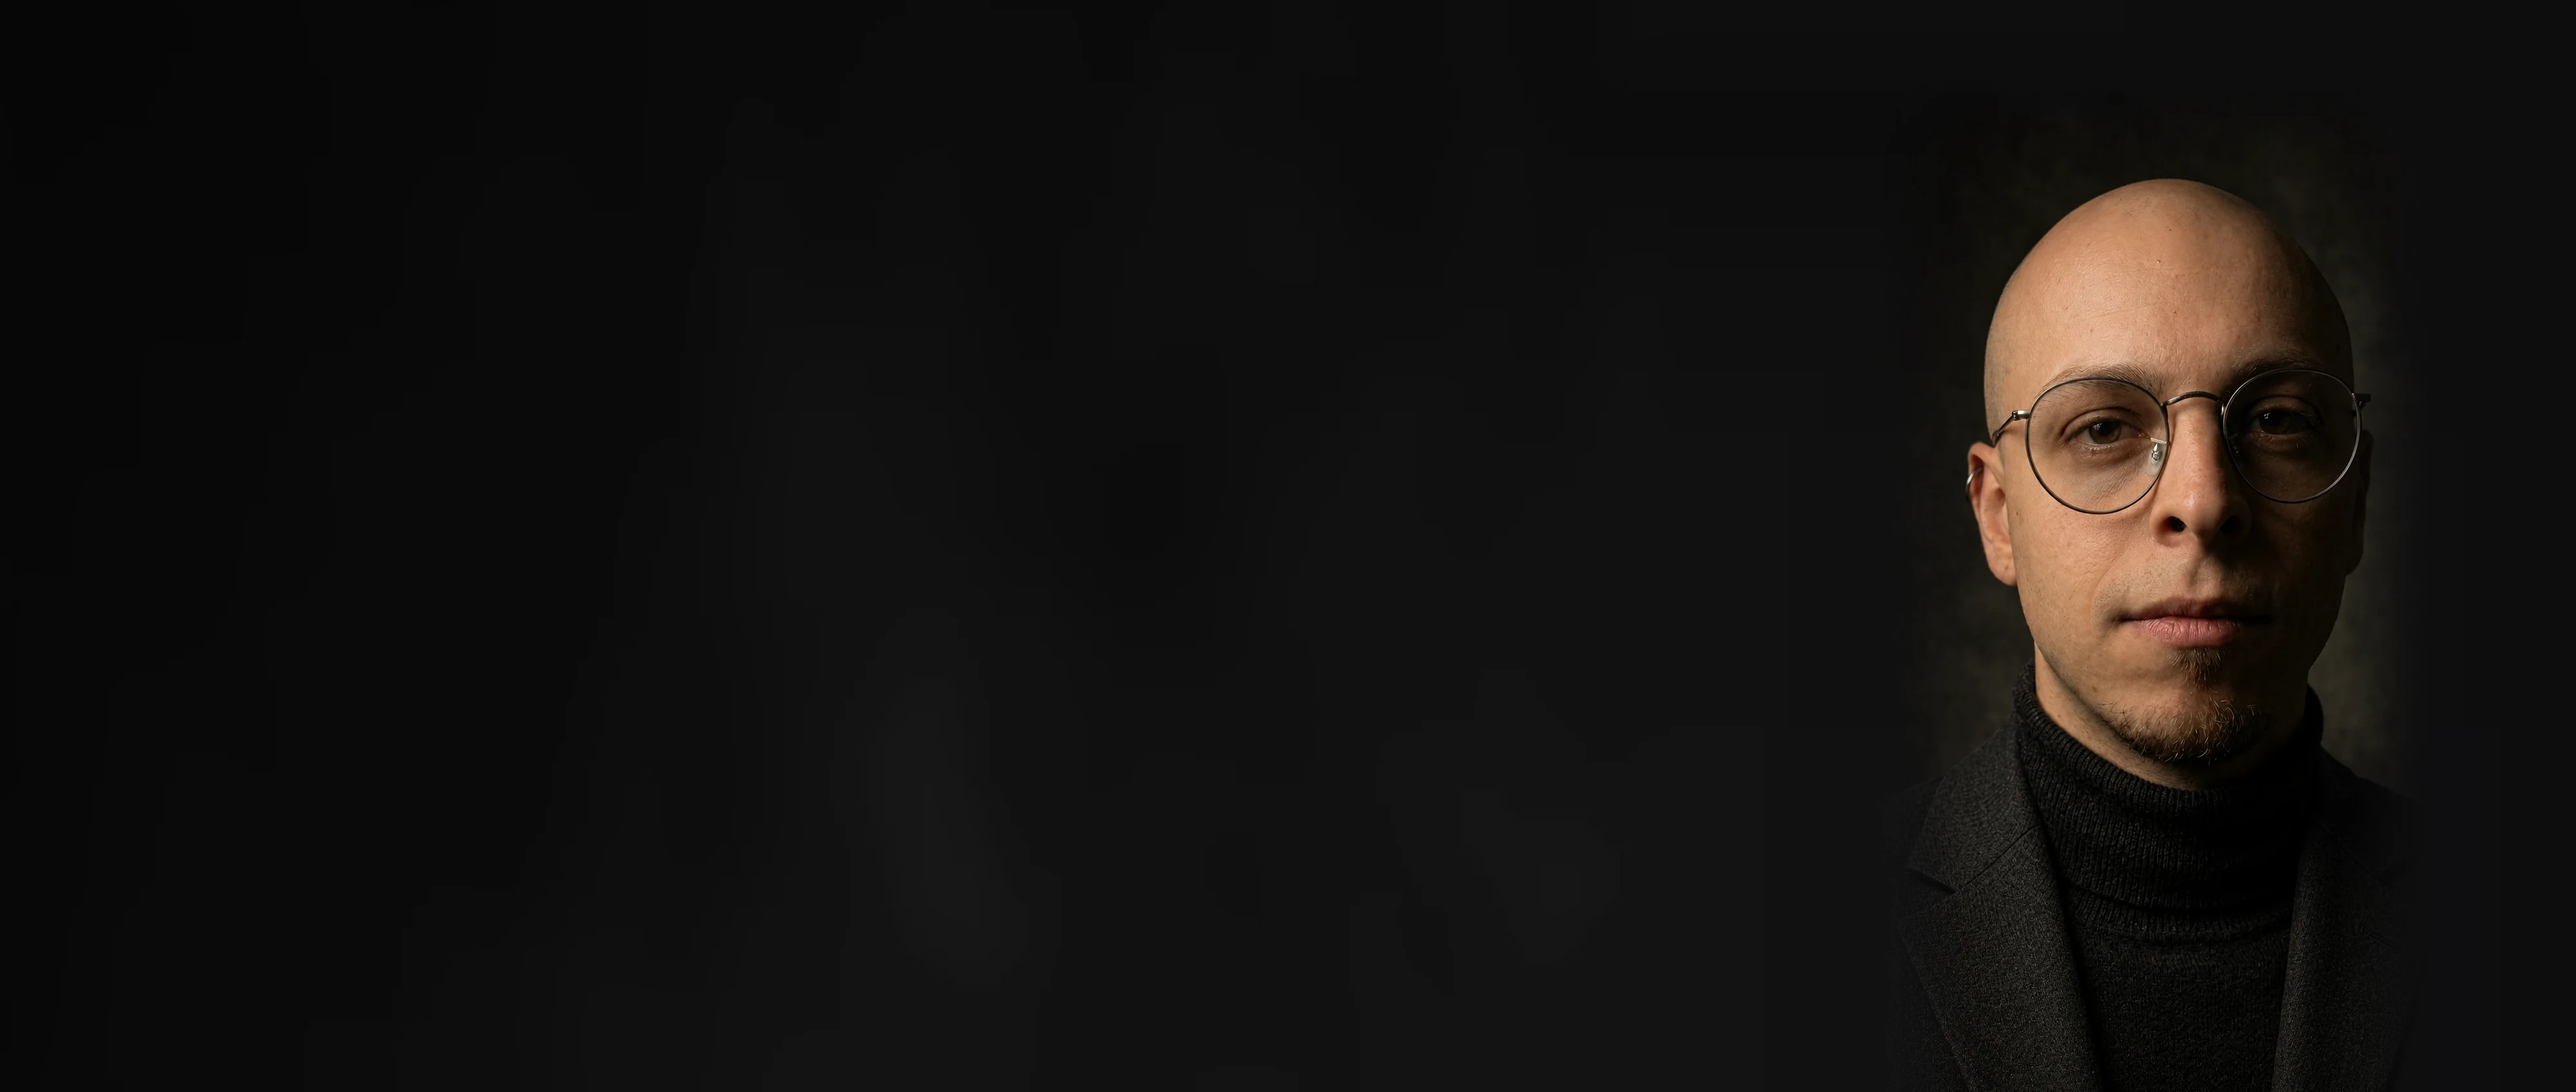
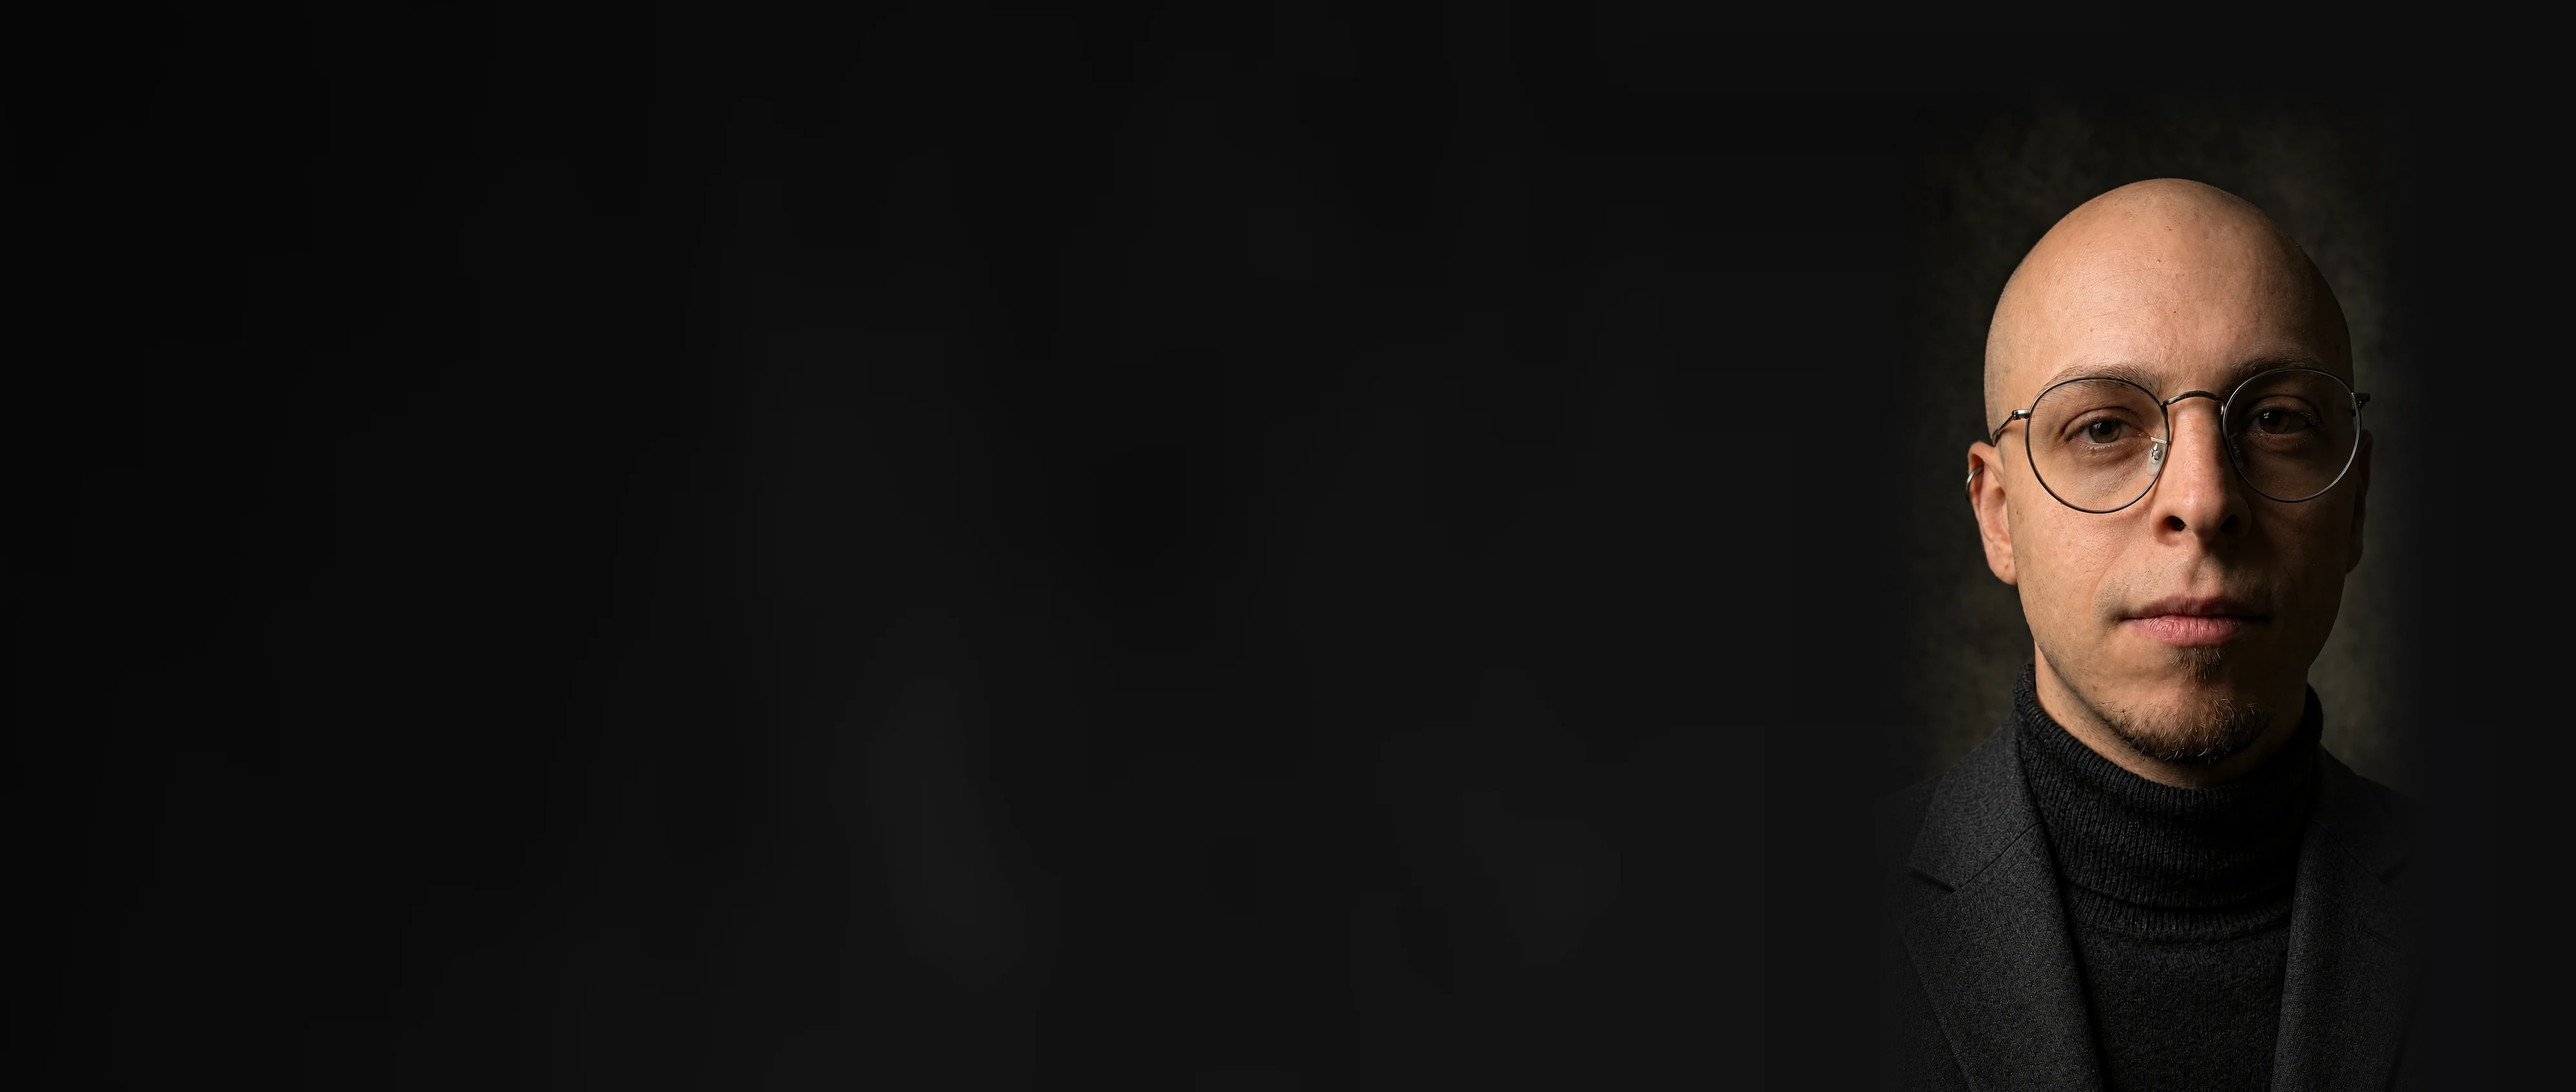
Foto in home: versione più nitida dello stesso ritratto (#449)
* Firma scritta a mano su nome e saluto in home

Destiny Signature (sottoinsieme latino, woff2) solo per il nome nella
barra in alto e per il saluto in home; gli altri titoli restano in
Bodoni Moda. Dimensioni e interlinea adattate perché le lettere lunghe
non tocchino il testo sotto.

Claude-Session: https://claude.ai/code/session_0117AcoAoRNxCeiVuVm8eKGz

* Saluto in home senza punto finale

Claude-Session: https://claude.ai/code/session_0117AcoAoRNxCeiVuVm8eKGz

* Home: saluto in arancione, link di testo e striscia senza blocchi laterali

- "Ciao, sono Nicolò Forcolin" nel colore d'accento.
- I due pulsanti diventano link di testo arancioni sottolineati, alti
  almeno 44px; rimosse tutte le regole .hero-btn che li servivano.
- Tolti i due rettangoli arancioni ai lati della striscia dei progetti,
  con le regole CSS e la variabile --rail-width.

Claude-Session: https://claude.ai/code/session_0117AcoAoRNxCeiVuVm8eKGz

* Skyline di Padova in fondo alle pagine interne

Disegno della città sopra la riga del piè di pagina ("Padova, Italia")
su tutte le pagine tranne la home. Firma originale ritagliata via;
il fondo quasi nero del disegno si fonde con quello del sito tramite
mix-blend-mode: lighten.

Claude-Session: https://claude.ai/code/session_0117AcoAoRNxCeiVuVm8eKGz

* Anteprima dei link con lo skyline di Padova

og:image e twitter:image di tutte le pagine puntano a og-padova.jpg
(1200x630, disegno di Padova con la firma). og-image.png resta come
[…]

Changed region(s): [[0.75, 0.1562, 0.875, 0.7188], [0.75, 0.7188, 0.8125, 1.0]]

diff --git a/index.html b/index.html
@@ -96,9 +96,9 @@
     <div class="hero-photo-frame">
       <a class="scroll-btn" href="#hero-name"><span data-i18n="scroll_btn">Entra nel sito</span><svg viewBox="0 0 16 16" width="16" height="16" fill="none" stroke="currentColor" stroke-width="1.75" stroke-linecap="round" stroke-linejoin="round" aria-hidden="true" focusable="false"><path d="M8 2.5v11M3.5 9 8 13.5 12.5 9"/></svg></a>
       <picture>
-        <source media="(max-width:700px)" srcset="photo-mobile.webp?v=21" type="image/webp">
-        <source srcset="photo.webp?v=21" type="image/webp">
-        <img class="hero-portrait" id="avatarPhoto" src="photo.webp?v=21" alt="Nicolò Forcolin" width="4000" height="1696" fetchpriority="high">
+        <source media="(max-width:700px)" srcset="photo-mobile.webp?v=22" type="image/webp">
+        <source srcset="photo.webp?v=22" type="image/webp">
+        <img class="hero-portrait" id="avatarPhoto" src="photo.webp?v=22" alt="Nicolò Forcolin" width="4000" height="1696" fetchpriority="high">
       </picture>
     </div>
   </div>

diff --git a/tests/site-regression.test.js b/tests/site-regression.test.js
@@ -69,8 +69,8 @@ assert(home.includes('id="heroIntro"'), 'Hero intro paragraph missing');
 for (const language of ['it', 'en']) assert(dictionaries[language].includes('hero_intro:'), language + ': hero intro missing');
 assert(home.includes('data-i18n="skip_to_content"'), 'Skip link must be translated');
 assert(home.includes('class="hero-filmstrip"'), 'Hero filmstrip must link to the real pages');
-assert(home.includes('srcset="photo.webp?v=21"'), 'New portrait must be displayed');
-assert(home.includes('srcset="photo-mobile.webp?v=21"'), 'Mobile portrait crop must be displayed');
+assert(home.includes('srcset="photo.webp?v=22"'), 'New portrait must be displayed');
+assert(home.includes('srcset="photo-mobile.webp?v=22"'), 'Mobile portrait crop must be displayed');
 assert(!home.includes('class="info-dialog"'), 'Project dialogs were replaced by pages');
 
 assert(read('rag-aziendale.html').includes('data-i18n="c1_summary"'), 'RAG summary must remain');
